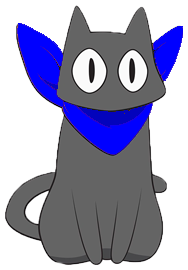
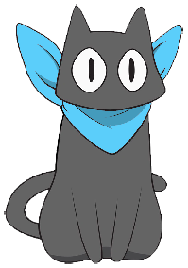
fixed a lot css and made interface adjustments

diff --git a/application/public/css/style.css b/application/public/css/style.css
@@ -43,16 +43,19 @@ input[type=submit] {
 
 .nav {
   text-align: center;
-  margin-top: 10px;
 }
 
 .header {
   text-align: center;
-  padding: 1px 0;
+  padding: auto;
   justify-content: center;
   margin: auto;
-  margin-bottom: 10px;
   width: 250px;
+}
+.headcont{
+  background: url(toppartwebsite.png);
+  padding-top: 18px;
+  padding-bottom: 18px;
 }
 
 .container {
@@ -77,7 +80,7 @@ form {
   margin: auto;
   width: 700px;
   padding-top: 50px;
-  padding-bottom: 50px;
+  padding-bottom: 30px;
   margin-top: 30px;
 }
 
@@ -217,53 +220,43 @@ input[type="file" i] {
 }
 
 .indexnav {
-  background-color: red;
+  background-color: rgb(242, 243, 245);
 }
 
 .indexnav:hover {
   background-color: white;
   color: black;
-  border: solid red;
+  border: solid rgb(242, 243, 245);
 }
 
 .loginnav {
-  background-color: rgb(255, 208, 0);
+  background-color: rgb(91, 206, 250);
 }
 
 .loginnav:hover {
   background-color: white;
   color: black;
-  border: solid rgb(255, 208, 0);
-}
-
-.regnav {
-  background-color: green;
-}
-
-.regnav:hover {
-  background-color: white;
-  color: black;
-  border: solid green;
+  border: solid rgb(91, 206, 250);
 }
 
 .postnav {
-  background-color: blue;
+  background-color: rgb(245, 169, 184);
 }
 
 .postnav:hover {
   background-color: white;
   color: black;
-  border: solid blue;
+  border: solid rgb(245, 169, 184);
 }
 
 .viewnav {
-  background-color: purple;
+  background-color: rgb(245, 169, 184);
 }
 
 .viewnav:hover {
   background-color: white;
   color: black;
-  border: solid purple;
+  border: solid rgb(245, 169, 184);
 }
 .alert-danger{
   position: fixed;

diff --git a/application/public/css/pink.css b/application/public/css/pink.css
@@ -1,0 +1,54 @@
+.nav{
+    background-color: rgb(245, 169, 184);
+}
+
+body.container{
+    background-color: rgb(251, 221, 227);
+}
+
+.header {
+    background-color: rgb(251, 221, 227);
+    border: 4px solid rgb(245, 169, 184);
+}
+
+.form {
+    border: 4px solid rgb(245, 169, 184);
+}
+
+.sub {
+    background-color: rgb(245, 169, 184);
+    color: white;
+    transition-duration: .4s;
+    border: none;
+    margin-top: 30px;
+}
+
+.sub:hover {
+    background-color: white;
+    color: black;
+    border: solid rgb(245, 169, 184);
+}
+
+#cat{
+    width:188px;
+    height: 268px;
+    background: url(sakamotopink.png);
+}
+
+.postimform {
+    border: 4px solid rgb(245, 169, 184);
+}
+
+.postsub {
+    background-color: rgb(245, 169, 184);
+    color: white;
+    transition-duration: .4s;
+    border: none;
+    margin-top: 30px;
+}
+
+.postsub:hover {
+    background-color: white;
+    color: black;
+    border: solid rgb(245, 169, 184);
+}

diff --git a/application/routes/index.js b/application/routes/index.js
@@ -4,21 +4,21 @@ var router = express.Router();
 
 /* GET home page. */
 router.get('/', function(req, res, next) {
-  res.render('index', { title: 'CSC 317 App', name:"Lily Keus", css:["index.css"], js:["Index.js"] });
+  res.render('index', { title: 'CSC 317 App', name:"Lily Keus", css:["white.css"]});
 });
 
 router.get("/login", function(req,res){
-  res.render('login', {css:["login.css"]})
+  res.render('login', {css:["blue.css"]})
 });
 router.get("/registration", function(req,res){
-  res.render('registration',{css:["registration.css"]})
+  res.render('registration',{css:["blue.css"]})
 });
 
 router.get("/postimage", isLoggedIn, function(req,res){
-  res.render('postimage',{css:["postimage.css"]})
+  res.render('postimage',{css:["pink.css"]})
 });
 router.get("/viewpost", function(req,res){
-  res.render('viewpost',{css:["viewpost.css"]})
+  res.render('viewpost',{css:["pink.css"]})
 });
 
 module.exports = router;

diff --git a/application/public/css/blue.css b/application/public/css/blue.css
@@ -1,0 +1,36 @@
+.nav{
+    background-color: rgb(91, 206, 250);
+}
+
+body.container{
+    background-color: rgb(189, 235, 253);
+}
+
+.header {
+    background-color: rgb(189, 235, 253);
+    border: 4px solid rgb(91, 206, 250);
+}
+
+.form {
+    border: 4px solid rgb(91, 206, 250);
+}
+
+.sub {
+    background-color: rgb(91, 206, 250);
+    color: white;
+    transition-duration: .4s;
+    border: none;
+    margin-top: 30px;
+}
+
+.sub:hover {
+    background-color: white;
+    color: black;
+    border: solid rgb(91, 206, 250);
+}
+
+#cat{
+    width:188px;
+    height: 268px;
+    background: url(sakamotoblue.png);
+}

diff --git a/application/public/css/white.css b/application/public/css/white.css
@@ -1,0 +1,26 @@
+.nav{
+    background-color: rgb(242, 243, 245);
+}
+
+body.container{
+    background-color: rgb(250, 250, 251);
+}
+
+#cat{
+    width:188px;
+    height: 268px;
+    background: url(sakamotowhite.png);
+}
+
+.nav{
+    background-color: rgb(242, 243, 245);
+}
+
+body.container{
+    background-color: rgb(250, 250, 251);
+}
+
+.header {
+    background-color: rgb(250, 250, 251);
+    border: 4px solid rgb(242, 243, 245);
+}
